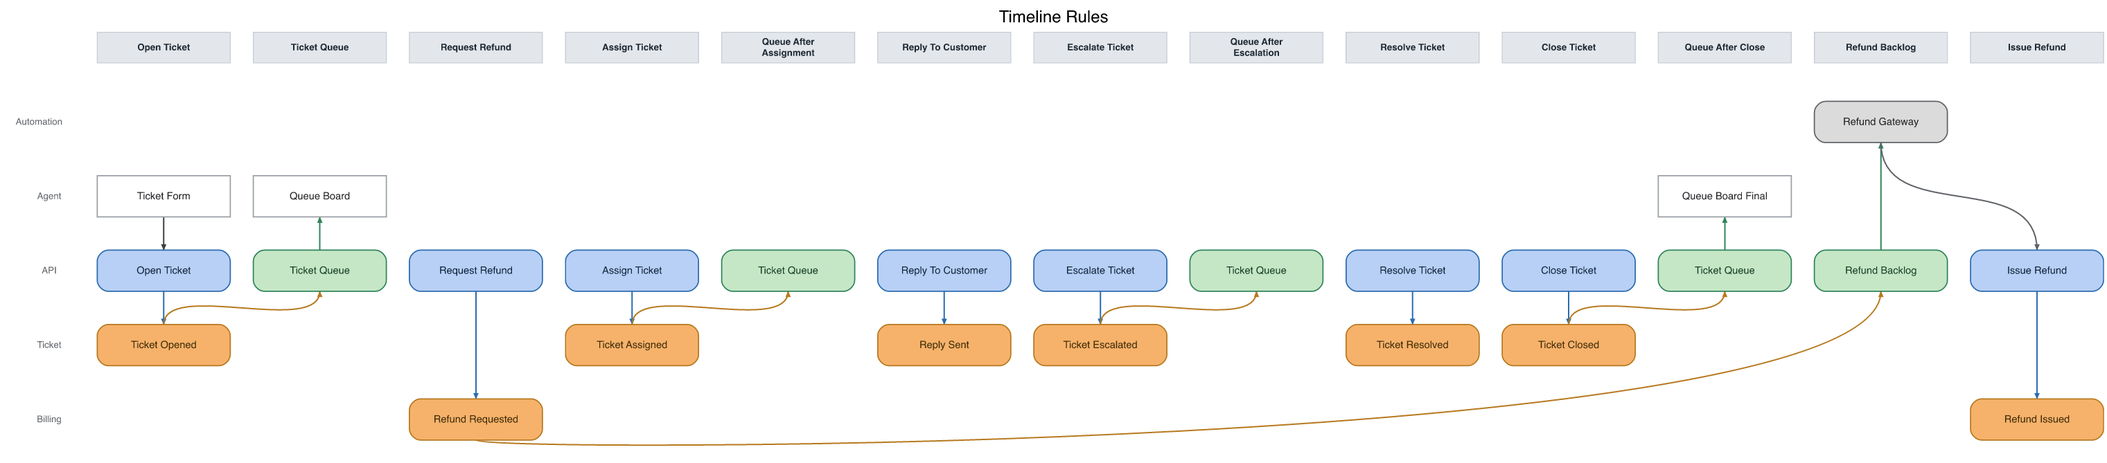
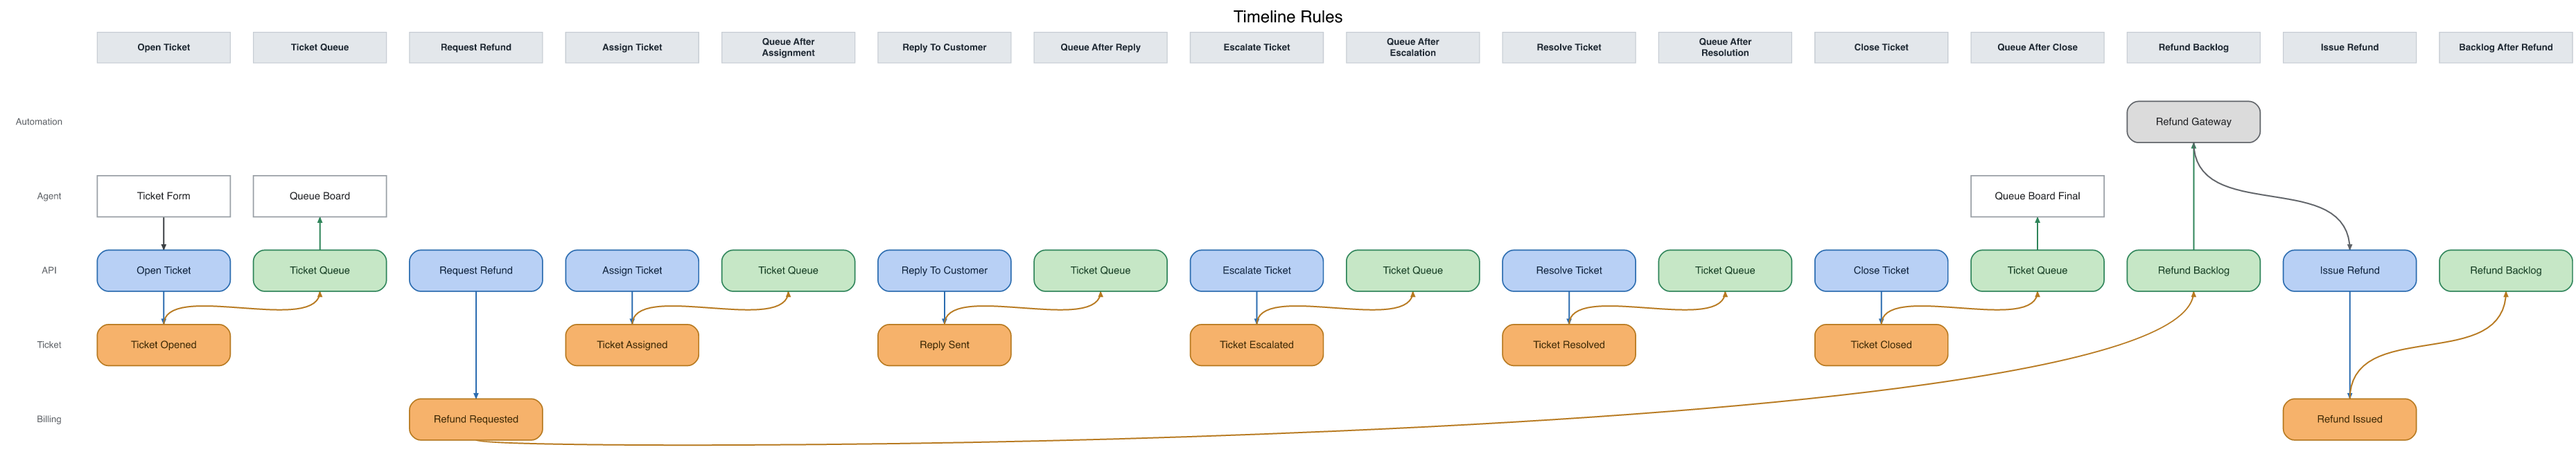
Warn when an event no read model reads (MIL-72)
The mirror of "command produces no event": recording an event nothing projects
is a write with no reader. There is no point emitting an event if nothing reads
it, so a State Change slice is only finished once the State View slice that
consumes its event exists.

An event counts as read when a view names it in `from` (any `again` instance
will do), when a view with no `from` sits in its slice, or via an explicit
event -> view arrow.

Warning, not error, matching every sibling completeness check. A model under
construction spends most of its life with a write slice ahead of its read
slice, and errors block rendering — `em watch` would stop redrawing mid-session
exactly when the diagram is most wanted. The three shipped examples were
already clean, so the rule costs nothing to adopt.

- examples/timeline-rules.em: Reply Sent, Ticket Resolved and Refund Issued
  dangled. Added the read slice each one needed — Queue After Reply, Queue
  After Resolution, and Backlog After Refund (the backlog clears when the
  refund is issued). Six Ticket Queue instances now, still unconnected, and the
  long-span detour is unchanged.
- test/cli.test.ts: CLEAN and WITH_ISSUE recorded an event nobody read, so they
  are no longer clean under the new rule. Gave each a read slice; the issue
  fixture keeps its issue on line 2.

diff --git a/test/validate.test.ts b/test/validate.test.ts
@@ -391,3 +391,122 @@ arrow "Refund Gateway" -> "Issue Refund"
     ).toHaveLength(0);
   });
 });
+
+describe("unread event warning", () => {
+  // The mirror of "command produces no event": recording an event nothing projects is a
+  // write with no reader. A warning, not an error — a model in progress legitimately has a
+  // write slice whose read slice hasn't been added yet, and errors block rendering.
+  const unread = (src: string) =>
+    diagsFor(src).filter((d) => d.message.includes("not read by any read model"));
+
+  it("warns on an event no read model consumes, at the event's line", () => {
+    const diags = unread(`
+context Ticket
+slice "Open Ticket" {
+  command Open Ticket
+  event Ticket Opened @Ticket
+}
+`);
+    expect(diags).toHaveLength(1);
+    expect(diags[0]).toMatchObject({ severity: "warning", line: 5 });
+    expect(diags[0].message).toContain('event "Ticket Opened"');
+  });
+
+  it("stays quiet when a view names the event in `from`, from any later slice", () => {
+    expect(
+      unread(`
+context Ticket
+slice "Open Ticket" {
+  command Open Ticket
+  event Ticket Opened @Ticket
+}
+slice "Queue" {
+  view Ticket Queue from "Ticket Opened"
+}
+`),
+    ).toHaveLength(0);
+  });
+
+  it("counts a `view X again` instance as the reader", () => {
+    expect(
+      unread(`
+context Ticket
+slice "Open" {
+  command Open Ticket
+  event Ticket Opened @Ticket
+}
+slice "Queue" {
+  view Ticket Queue from "Ticket Opened"
+}
+slice "Assign" {
+  command Assign Ticket
+  event Ticket Assigned @Ticket
+}
+slice "Queue Again" {
+  view Ticket Queue again from "Ticket Assigned"
+}
+`),
+    ).toHaveLength(0);
+  });
+
+  it("counts a same-slice view with no `from` as the reader", () => {
+    expect(
+      unread(`
+context Ticket
+slice "Open And Read" {
+  command Open Ticket
+  event Ticket Opened @Ticket
+  view Ticket Queue
+}
+`),
+    ).toHaveLength(0);
+  });
+
+  it("counts an explicit event -> view arrow as the reader", () => {
+    expect(
+      unread(`
+context Ticket
+slice "Open" {
+  command Open Ticket
+  event Ticket Opened @Ticket
+}
+slice "Board" {
+  view Ops Board from "Ticket Opened"
+}
+slice "Later" {
+  command Assign Ticket
+  event Ticket Assigned @Ticket
+}
+slice "Other Board" {
+  view Second Board from "Ticket Opened"
+}
+arrow "Ticket Assigned" -> "Second Board"
+`),
+    ).toHaveLength(0);
+  });
+
+  it("flags each unread event separately and leaves the read ones alone", () => {
+    const diags = unread(`
+context Ticket
+slice "Open" {
+  command Open Ticket
+  event Ticket Opened @Ticket
+}
+slice "Queue" {
+  view Ticket Queue from "Ticket Opened"
+}
+slice "Reply" {
+  command Reply
+  event Reply Sent @Ticket
+}
+slice "Resolve" {
+  command Resolve
+  event Ticket Resolved @Ticket
+}
+`);
+    expect(diags.map((d) => d.message)).toEqual([
+      expect.stringContaining('"Reply Sent"'),
+      expect.stringContaining('"Ticket Resolved"'),
+    ]);
+  });
+});

diff --git a/src/model/validate.ts b/src/model/validate.ts
@@ -188,6 +188,38 @@ export function validate(model: NormalizedModel, grid: Grid): Diagnostic[] {
     }
   }
 
+  // Every event must be read by something. Recording an event nothing projects is a write
+  // with no reader — the mirror of a command that records no event, and a warning for the
+  // same reason: a model in progress legitimately has a write slice whose read slice hasn't
+  // been added yet, and errors block rendering (which would break `em watch` mid-session).
+  const readEvents = new Set<string>();
+  for (const el of model.elements) {
+    if (el.kind !== "view") continue;
+    const from = el.from ?? [];
+    // A view with no `from` reads the events in its own slice (same rule the renderer uses).
+    if (from.length) for (const name of from) readEvents.add(normalizeName(name));
+    else
+      for (const e of model.slices[el.sliceIndex]?.elements ?? []) {
+        if (e.kind === "event") readEvents.add(normalizeName(e.name));
+      }
+  }
+  for (const a of model.arrows) {
+    const from = a.fromId ? model.byId.get(a.fromId) : undefined;
+    const to = a.toId ? model.byId.get(a.toId) : undefined;
+    if (from?.kind === "event" && to?.kind === "view") readEvents.add(normalizeName(from.name));
+  }
+  for (const el of model.elements) {
+    if (el.kind !== "event") continue;
+    if (readEvents.has(normalizeName(el.name))) continue;
+    diags.push({
+      severity: "warning",
+      message:
+        `event "${el.name}" is not read by any read model; project it into a view ` +
+        `(\`view X from "${el.name}"\`), or reconsider recording it`,
+      line: el.line,
+    });
+  }
+
   // Explicit arrow endpoints must resolve — and point forward.
   for (const a of model.arrows) {
     if (a.fromId && a.toId) {

diff --git a/test/cli.test.ts b/test/cli.test.ts
@@ -19,9 +19,13 @@ function em(args: string[], cwd: string) {
   return { status: res.status, stdout: res.stdout, stderr: res.stderr };
 }
 
+// Genuinely clean: the event is read, so no "not read by any read model" warning either.
 const CLEAN = `slice "Place" {
   command Place Order
   event Order Placed
+}
+slice "Open Orders" {
+  view Open Orders from "Order Placed"
 }
 `;
 
@@ -31,9 +35,13 @@ const WARNING_ONLY = `slice "Place" {
 }
 `;
 
+// The open issue is the only diagnostic — the event is read (issue stays on line 2).
 const WITH_ISSUE = `slice "Place" {
   command Place Order issue "who validates the discount code?"
   event Order Placed
+}
+slice "Open Orders" {
+  view Open Orders from "Order Placed"
 }
 `;
 

diff --git a/test/edgeRouting.test.ts b/test/edgeRouting.test.ts
@@ -143,7 +143,7 @@ describe("edge routing never crosses an unrelated box", () => {
   it("draws no arrow between instances of the repeated read model", async () => {
     const model = normalize(parse(readFileSync(EXAMPLE, "utf8")));
     const instances = model.byName.get("ticket queue")!;
-    expect(instances.length).toBe(4);
+    expect(instances.length).toBe(6);
     const ids = new Set(instances.map((i) => i.id));
     const between = semanticEdges(model).filter((e) => ids.has(e.from) && ids.has(e.to));
     expect(between).toEqual([]);

diff --git a/.claude/skills/event-modeling/reference/em-dsl.md b/.claude/skills/event-modeling/reference/em-dsl.md
@@ -210,15 +210,19 @@ slice "Read Quote — created"   { view Quote from "QuoteCreated"  translation S
 1. **Automation/translation shares slice with its command** — both `automation`/`processor` and
    `translation` are reactions; put the triggered command in the *next* slice.
 2. **Command without event** — every command should record at least one event.
-3. **Read model without source** — add `from "Event"` or place the view in a slice with an event.
-4. **Duplicate name** — the same name defined N times; references resolve to the first. Rename.
-5. **Open issue** — an element carries `issue "text"`; resolve the question, then remove the
+3. **Event nobody reads** — the mirror of (2): recording an event no read model projects is a
+   write with no reader. Follow every write slice with the read slice that consumes its event.
+   Counts as read when a `view` names it in `from` (any `again` instance will do), when a
+   fieldless-`from` view sits in its slice, or via an explicit `event -> view` arrow.
+4. **Read model without source** — add `from "Event"` or place the view in a slice with an event.
+5. **Duplicate name** — the same name defined N times; references resolve to the first. Rename.
+6. **Open issue** — an element carries `issue "text"`; resolve the question, then remove the
    clause. `em validate --list-issues` prints just these; `--fail-on-issues` (opt-in) makes CI
    fail while any remain open.
-6. **View field with no source** — a `view` field whose name matches no field on any instance
+7. **View field with no source** — a `view` field whose name matches no field on any instance
    of its source events. Only checked once BOTH the view and at least one source event declare
    `{ fields }`.
-7. **Event field not from a command** — an `event` field whose name matches no field on any
+8. **Event field not from a command** — an `event` field whose name matches no field on any
    command in the same slice. Only checked once BOTH the event and at least one same-slice
    command declare `{ fields }`. This is the payoff of the fields feature for slicing rigor:
    once fields are written down, `em validate` checks that data flows forward consistently.

diff --git a/docs/validation.md b/docs/validation.md
@@ -49,6 +49,7 @@ each; run `em validate` on it to see all five.
 |---|---|
 | A `processor`/`translation` shares a slice with a command | Reactions trigger commands; put the triggered command in the next slice |
 | A command that records no event | Add the event, or reconsider the command |
+| An event no read model reads | Project it into a view, or reconsider recording it |
 | A read model with no source | Add `from "Event"`, or place it in a slice with an event |
 | A name defined more than once and referenced by a `from` or `arrow` | Rename; references resolve to the first occurrence |
 | An element carries an open `issue "text"` | Resolve the question, then remove the clause |
@@ -57,6 +58,22 @@ each; run `em validate` on it to see all five.
 
 Rendering also warns (without failing) when a `note "path.md"` points at a file that
 doesn't exist.
+
+### Both ends of a flow
+
+Two warnings guard the ends of the State Change → State View chain, and they mirror each
+other: **a command that records no event** is a write that changes nothing, and **an event no
+read model reads** is a write nobody can see. There is no point recording an event if nothing
+projects it, so a command whose event dangles is an unfinished slice — the read slice hasn't
+been written yet.
+
+An event counts as read when a `view` names it in `from`, when a `view` with no `from` sits in
+its slice, or when an explicit `arrow` points from it to a read model. Any instance of a
+repeated read model counts, so `view X again from "Event"` satisfies it.
+
+Both are warnings rather than errors on purpose. A model under construction spends most of its
+life with a write slice ahead of its read slice, and errors block rendering — `em watch` would
+stop redrawing mid-session exactly when you most want to see the diagram.
 
 ### Fields completeness
 

diff --git a/docs/patterns.md b/docs/patterns.md
@@ -30,6 +30,11 @@ slice "Place Order" {
 A command may record several events in one slice; the renderer draws a fan from the command
 to each (never an event-to-event chain).
 
+Every event a command records should end up in a read model. An event nothing projects is a
+write nobody can see — there is no point recording it — so a State Change slice is only
+finished once the State View slice that consumes its event exists.
+[`em validate` warns](validation.md#both-ends-of-a-flow) while one dangles.
+
 ## State View
 
 Past events are projected into a read model that a screen displays. Read-only; nothing
